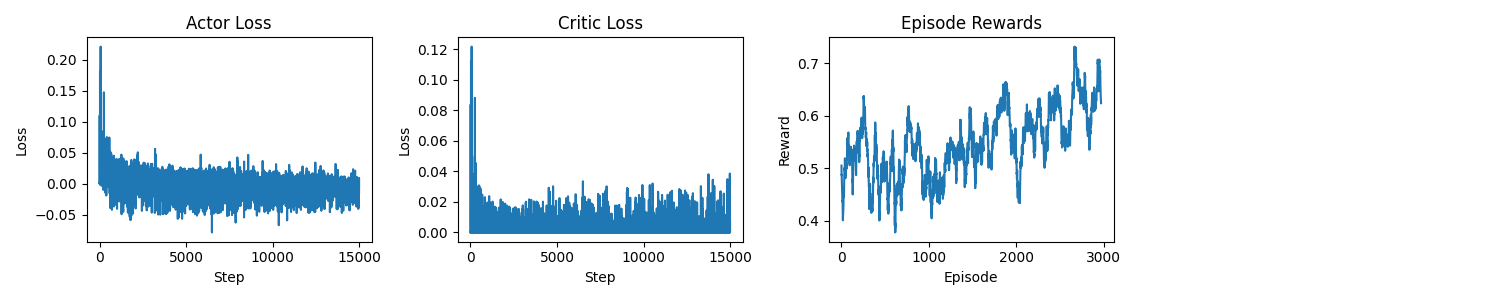
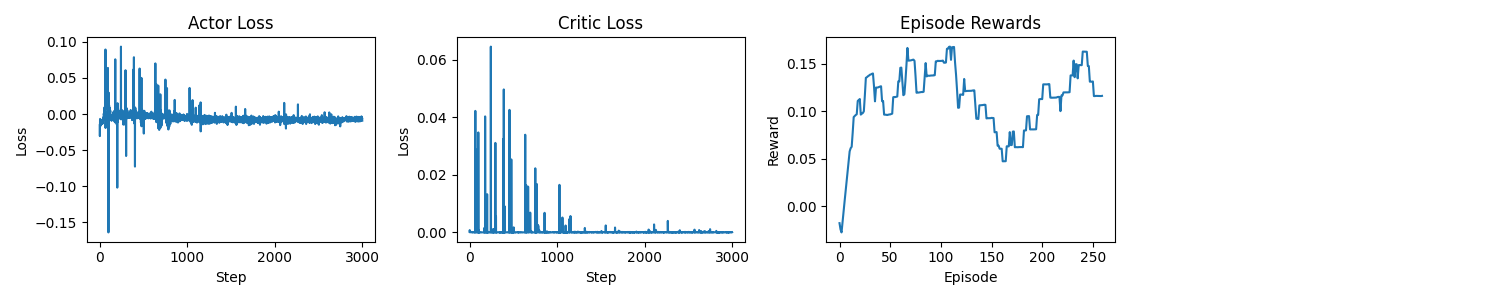
fix

diff --git a/model/minigrid/main.py b/model/minigrid/main.py
@@ -29,20 +29,20 @@ else:
 
 NUM_ACTIONS = 3  # MiniGrid has 3 actions: left, right, forward
 NUM_ENVS = 10
-NUM_STEPS = 15000
-EVAL_FREQ = 14000
+NUM_STEPS = 3000
+EVAL_FREQ = 3000 - 1
 RENDER_EVAL = False
 WINDOW_SIZE = 50
 
 HIDDEN_SIZE = 128
-ACTOR_LR = 1e-6
-CRITIC_LR = 2e-6
+ACTOR_LR = 1e-5
+CRITIC_LR = 2e-5
 
 RESERVOIR_SIZE = 1000
-STATE_LR = 1e-4
+STATE_LR = 1e-5
 STATE_LOSS_THRESHOLD = 1.5
 
-env_name = 'MiniGrid-Empty-5x5-v0'
+env_name = 'MiniGrid-Empty-8x8-v0'
 
 
 def make_env(render_mode: str | None = "rgb_array", max_steps: int = 100) -> gym.Env:
@@ -170,12 +170,35 @@ def main() -> None:
 
         env = AsyncVectorEnv([lambda: make_env(None, max_steps=100) for _ in range(NUM_ENVS)])
         eval_env = make_env("human", max_steps=100)
-
         obs_array: np.ndarray
         obs_array, _ = env.reset(seed=0)
-
-        # Process observations
         obs_array = np.stack([one_hot_encode_observation(o) for o in obs_array])
+
+        ########
+        obs = torch.tensor(obs_array, dtype=torch.float32).to(DEVICE)  # type: ignore
+        obs_array, rewards, dones, truncs, infos = env.step(torch.zeros(NUM_ENVS).cpu().numpy())
+        # pass through ff
+        rewards = torch.zeros(NUM_ENVS, 1, device=DEVICE)
+
+        # handle pos
+        actions_onehot = F.one_hot(torch.zeros(NUM_ENVS, dtype=torch.int64), num_classes=NUM_ACTIONS).to(DEVICE)
+        sensory_input_pos = torch.cat((obs, actions_onehot, rewards), dim=1)
+
+        # handle neg
+        negative_actions = torch.randint(1, NUM_ACTIONS, (NUM_ENVS,), device=DEVICE)
+        negative_actions_onehot = F.one_hot(negative_actions, num_classes=NUM_ACTIONS)
+        sensory_input_neg = torch.cat((obs, negative_actions_onehot, rewards), dim=1)
+
+        state.process_timestep(sensory_input_pos, sensory_input_neg, training=True)
+        state_activations = state.activations.detach().clone()
+
+        # add to existing rewards a state reward that is magnitude of activations in EBM
+        from model.ff.ff import layer_activations_to_badness
+        state_rewards = torch.zeros_like(layer_activations_to_badness(state_activations).detach().unsqueeze(1))
+        assert state_rewards.shape == (NUM_ENVS, 1)
+        assert rewards.shape == (NUM_ENVS, 1)
+        rewards += state_rewards
+        ############
 
         # Performance tracking
         episode_rewards = []
@@ -194,52 +217,13 @@ def main() -> None:
             #     optimizer_critic.param_groups[0]['lr'] = optimizer_critic.param_groups[0]['lr'] * 0.1
 
             # Actor logic
-            probs = actor(state.activations.detach())
+            probs = actor(state_activations.detach())
             dist = Categorical(probs)
             actions = dist.sample()
             log_probs = dist.log_prob(actions)
 
-            obs = torch.tensor(obs_array, dtype=torch.float32).to(DEVICE)  # type: ignore
-
-            # pass through ff
-            if step != 0:
-                rewards = torch.tensor(rewards, dtype=torch.float32).unsqueeze(1).to(DEVICE)  # Add dimension
-            else:
-                rewards = torch.zeros(NUM_ENVS, 1, device=DEVICE)
-
-            # handle pos
-            actions_onehot = F.one_hot(actions, num_classes=NUM_ACTIONS)
-            sensory_input_pos = torch.cat((obs, actions_onehot, rewards), dim=1)
-
-            # handle neg
-            negative_actions = torch.randint(0, NUM_ACTIONS, (NUM_ENVS,), device=DEVICE)
-            while (negative_actions == actions).any():
-                negative_actions = torch.randint(0, NUM_ACTIONS, (NUM_ENVS,), device=DEVICE)
-            negative_actions_onehot = F.one_hot(negative_actions, num_classes=NUM_ACTIONS)
-            sensory_input_neg = torch.cat((obs, negative_actions_onehot, rewards), dim=1)
-
-            state.process_timestep(sensory_input_pos, sensory_input_neg, training=True)
-            state_activations_prev = state.activations.detach().clone()
-
-            # add to existing rewards a state reward that is magnitude of activations in EBM
-            from model.ff.ff import layer_activations_to_badness
-            state_rewards = torch.zeros_like(layer_activations_to_badness(state_activations_prev).detach().unsqueeze(1))
-            assert state_rewards.shape == (NUM_ENVS, 1)
-            assert rewards.shape == (NUM_ENVS, 1)
-            rewards += state_rewards
-
-            # make this append the taken action
-            # append the action to the obs -- for neg action, sample random action but it cannot be same as pos action
-            # pos_obs = torch.cat((obs, actions.unsqueeze(1)), dim=1)
-            # neg_action = torch.randint(0, NUM_ACTIONS, (NUM_ENVS, 1)).to(DEVICE)
-            # while (neg_action == actions.unsqueeze(1)).any():
-            #     neg_action = torch.randint(0, NUM_ACTIONS, (NUM_ENVS, 1)).to(DEVICE)
-            # assert neg_action.shape == (NUM_ENVS, 1)
-            # neg_obs = torch.cat((obs, neg_action), dim=1)
-            # state.process_timestep(pos_obs, neg_obs, training=True)
-
             # Critic logic
-            prev_values_ = critic(state_activations_prev).squeeze()
+            prev_values_ = critic(state_activations.detach()).squeeze()
             assert prev_values_.shape == (NUM_ENVS,)
 
             # Environment step
@@ -249,6 +233,8 @@ def main() -> None:
             truncs: np.ndarray
             infos: dict
             next_obs_array, rewards, dones, truncs, infos = env.step(actions.cpu().numpy())
+            next_obs_array = np.stack([one_hot_encode_observation(o) for o in next_obs_array])
+            next_obs = torch.tensor(next_obs_array, dtype=torch.float32).to(DEVICE)  # type: ignore
 
             if True:
                 rewards = torch.tensor(rewards, dtype=torch.float32).unsqueeze(1).to(DEVICE)  # Add dimension
@@ -259,7 +245,7 @@ def main() -> None:
 
                 # handle pos
                 actions_onehot = F.one_hot(actions, num_classes=NUM_ACTIONS)
-                sensory_input_pos = torch.cat((obs, actions_onehot, rewards), dim=1)
+                sensory_input_pos = torch.cat((next_obs, actions_onehot, rewards), dim=1)
 
                 # handle neg
                 negative_actions = torch.randint(0, NUM_ACTIONS, (NUM_ENVS,), device=DEVICE)
@@ -269,17 +255,19 @@ def main() -> None:
                 sensory_input_neg = torch.cat((obs, negative_actions_onehot, rewards), dim=1)
 
                 state.process_timestep(sensory_input_pos, sensory_input_neg, training=True)
-                state_activations_prev = state.activations.detach().clone()
+                state_activations_next = state.activations.detach().clone()
 
                 # add to existing rewards a state reward that is magnitude of activations in EBM
                 from model.ff.ff import layer_activations_to_badness
-                state_rewards = torch.zeros_like(layer_activations_to_badness(state_activations_prev).detach().unsqueeze(1))
+                state_rewards = (layer_activations_to_badness(state_activations_next).detach().unsqueeze(1) - STATE_LOSS_THRESHOLD) * .01
+                wandb.log({
+                    "state_reward": state_rewards.squeeze().mean().item()
+                })
                 assert state_rewards.shape == (NUM_ENVS, 1)
                 assert rewards.shape == (NUM_ENVS, 1)
                 rewards += state_rewards
                 rewards = rewards.squeeze()
 
-                state_activations_next = state.activations.detach().clone()
 
 
             # NOTE: dense reward
@@ -291,11 +279,6 @@ def main() -> None:
             #         if agent_pos[i] == last_agent_pos[i]:
             #             rewards[i] -= 0.01
             #     last_agent_pos[i] = agent_pos[i]
-
-
-            # Process the new observations
-            next_obs_array = np.stack([one_hot_encode_observation(o) for o in next_obs_array])
-            next_obs = torch.tensor(next_obs_array, dtype=torch.float32).to(DEVICE)  # type: ignore
 
             # Update episode rewards and steps
             current_rewards += rewards.squeeze().cpu().numpy()
@@ -397,6 +380,7 @@ def main() -> None:
 
             # Update observation
             obs = next_obs
+            state_activations = state_activations_next
             total_steps += NUM_ENVS
 
         # Plot results
